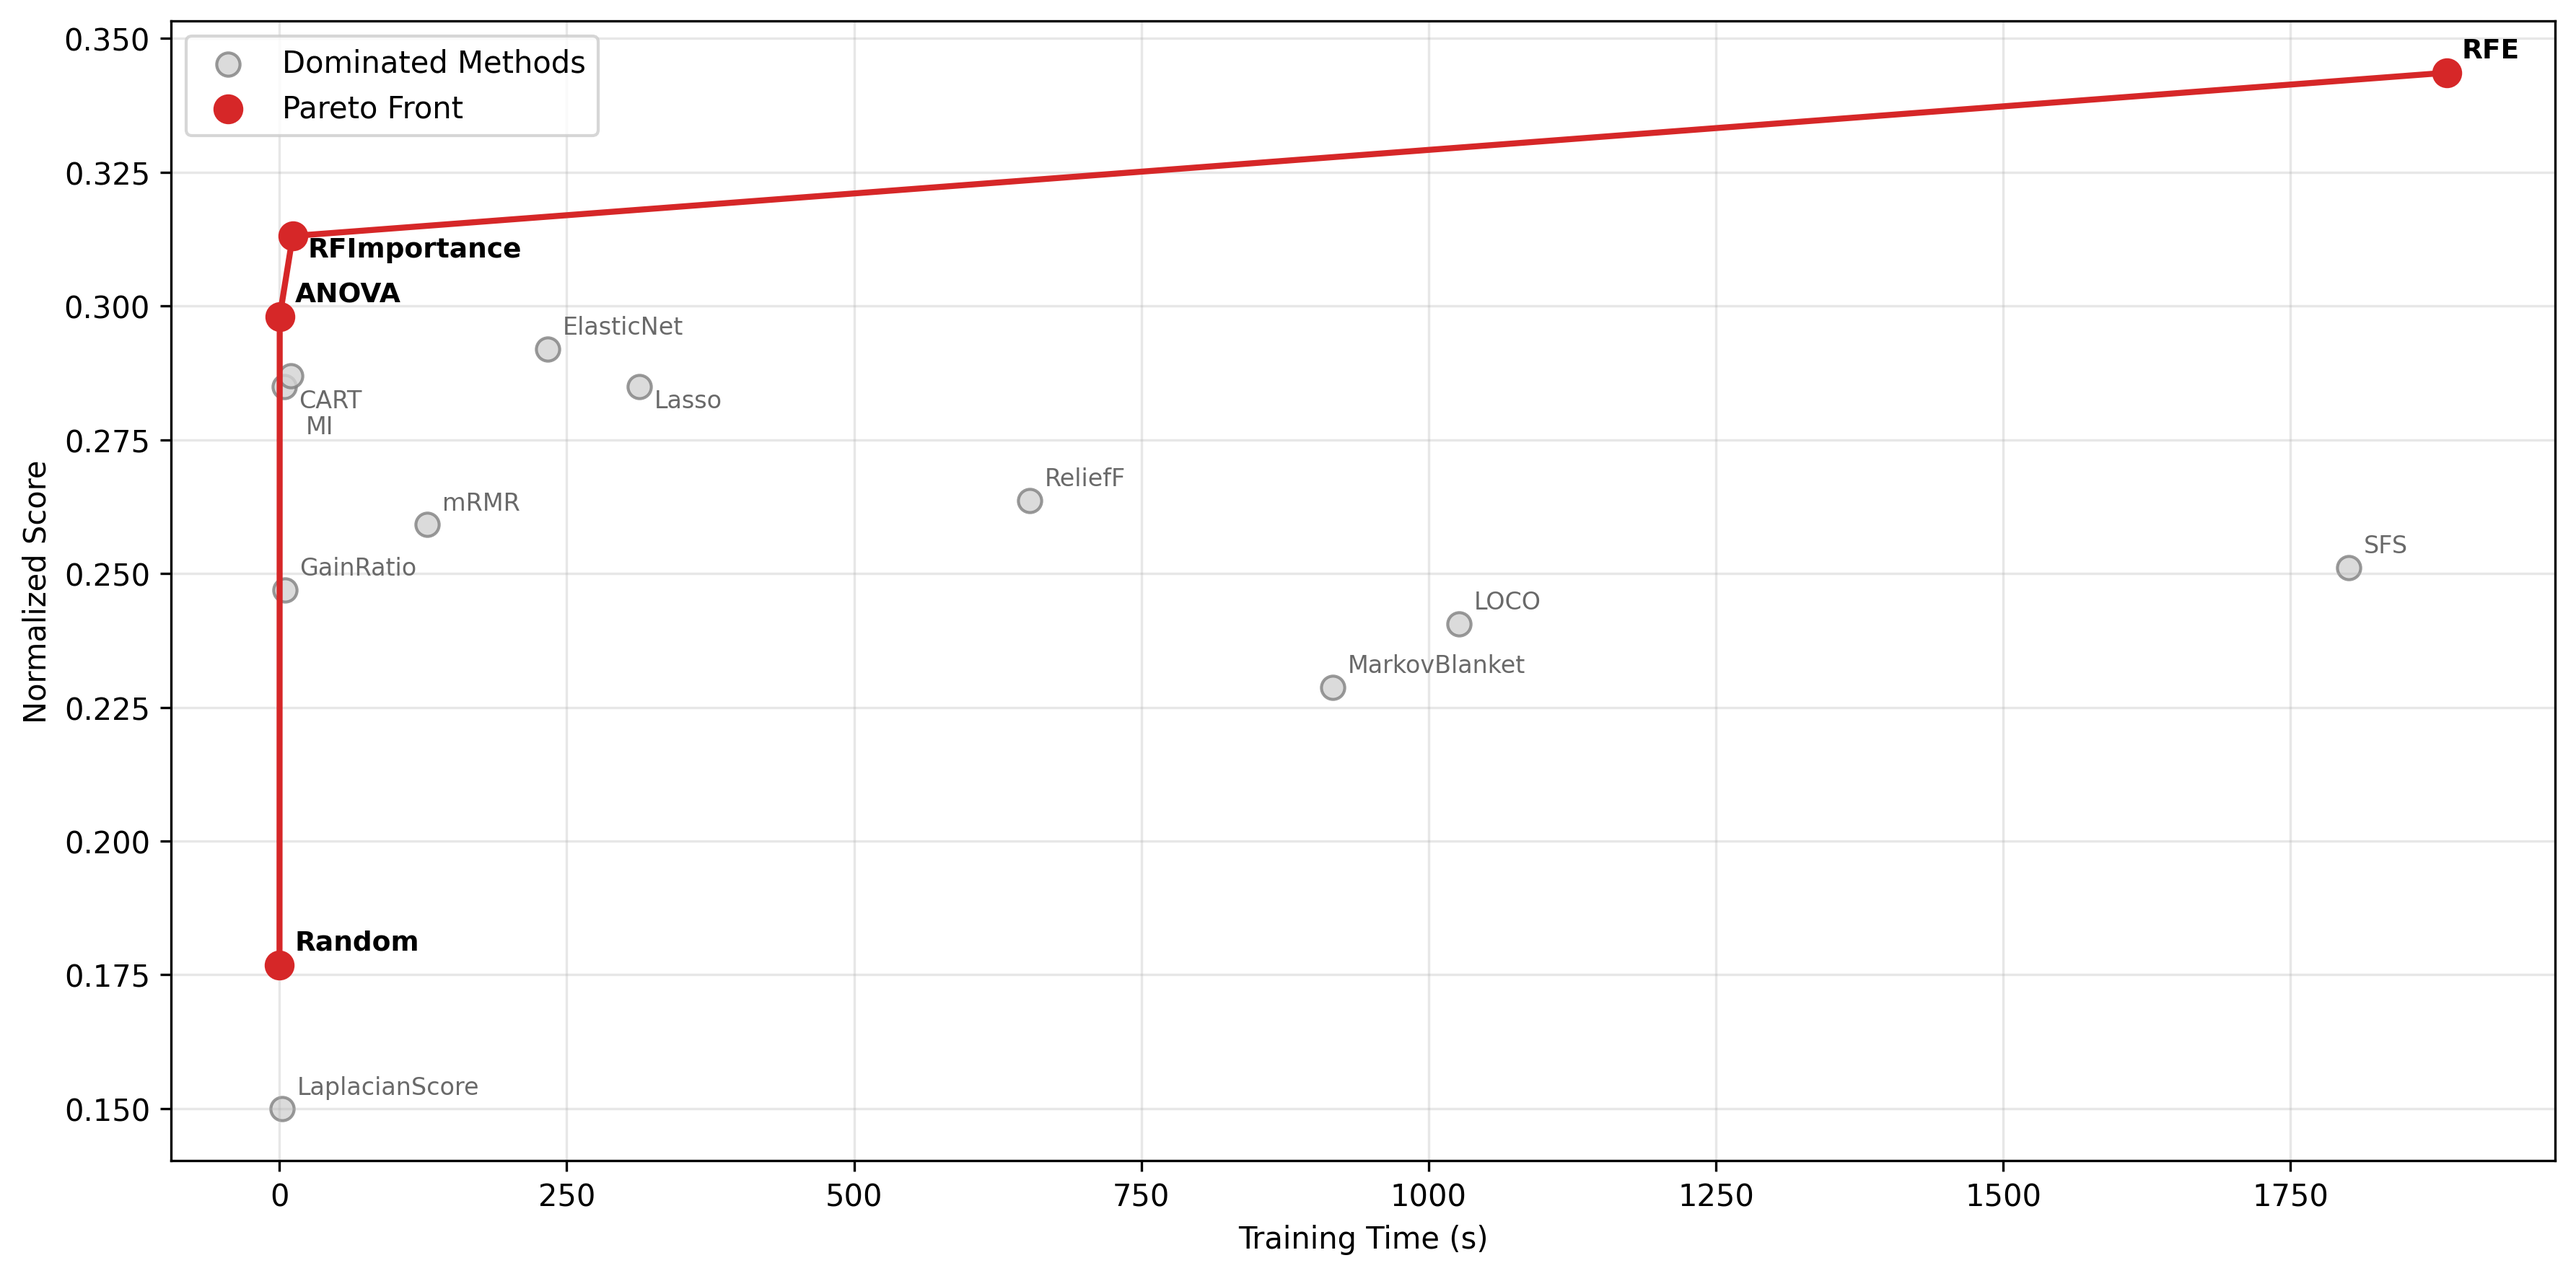
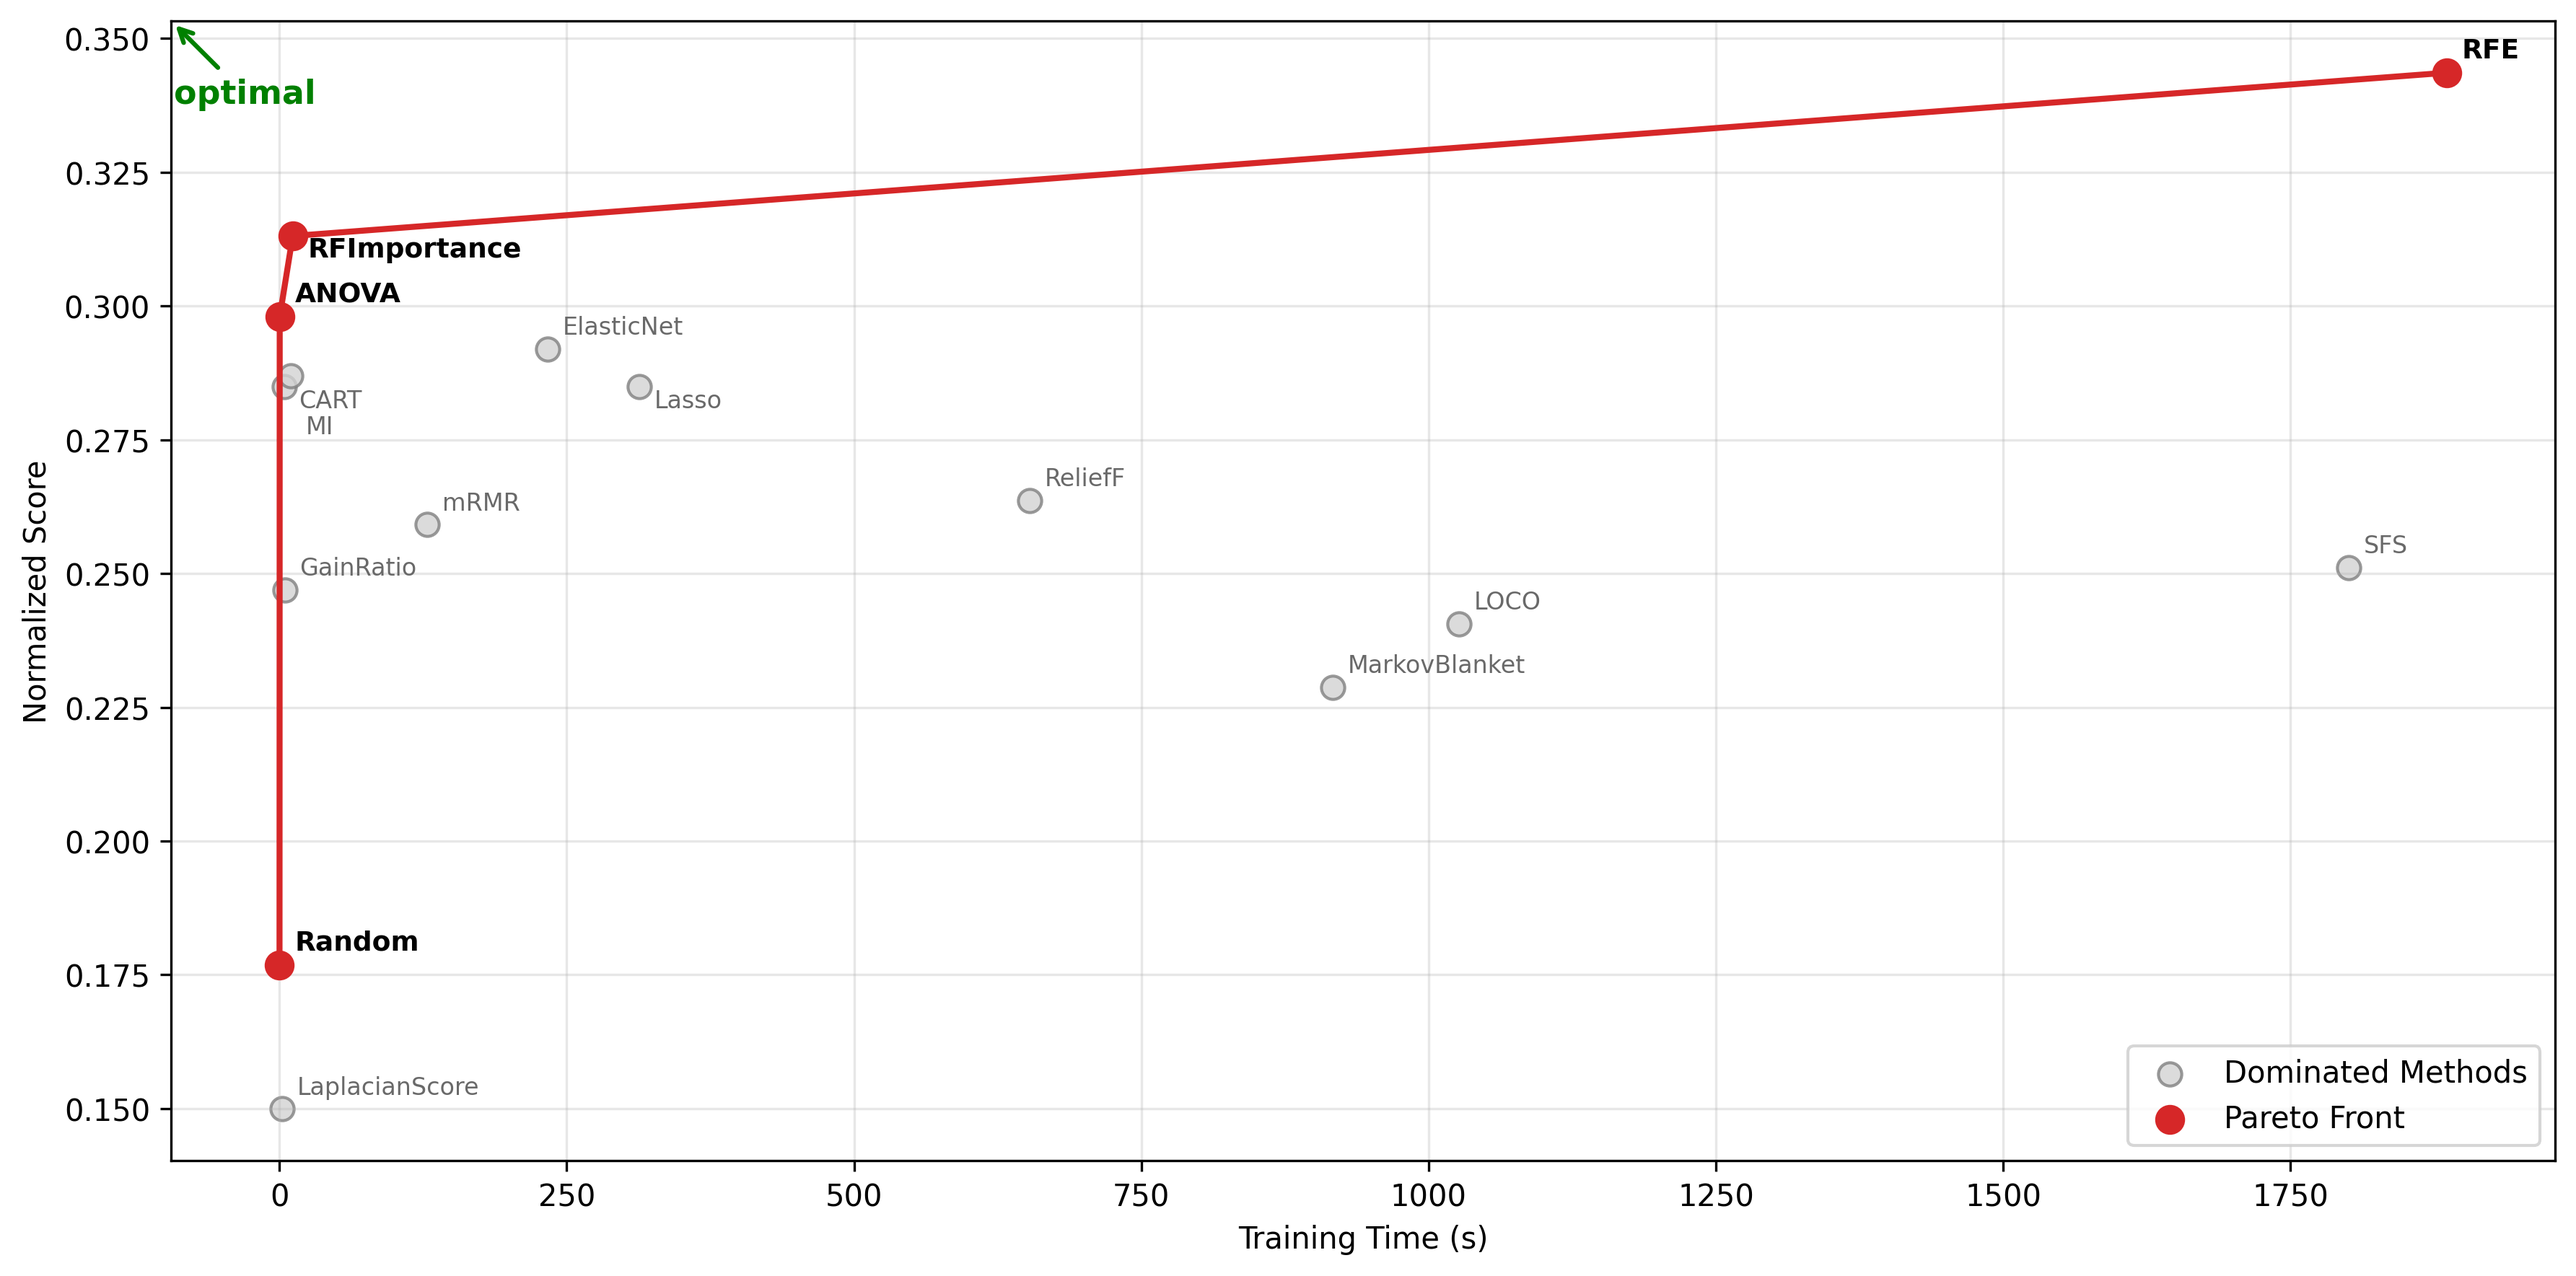
maint: add optimal arrow

Changed region(s): [[0.8084, 0.8084, 0.995, 0.9016], [0.0622, 0.0311, 0.2487, 0.0933]]

diff --git a/plotting_code/performance/normalization/pareto_performance_time_v1.py b/plotting_code/performance/normalization/pareto_performance_time_v1.py
@@ -151,6 +151,24 @@ def plot(df):
                 color="dimgray"
             )
 
+    ax.annotate(
+        "optimal",
+        xy=(0.0, 1.0),  # arrow tip near top-left
+        xytext=(0.001, 0.95),  # text a bit inside the plot
+        xycoords="axes fraction",
+        textcoords="axes fraction",
+        arrowprops=dict(
+            arrowstyle="->",
+            color="green",
+            lw=1.5
+        ),
+        fontsize=11,
+        fontweight="bold",
+        color="green",
+        ha="left",
+        va="top"
+    )
+
     ax.set_title(PLOT_TITLE)
     ax.set_xlabel(X_LABEL)
     ax.set_ylabel(Y_LABEL)
